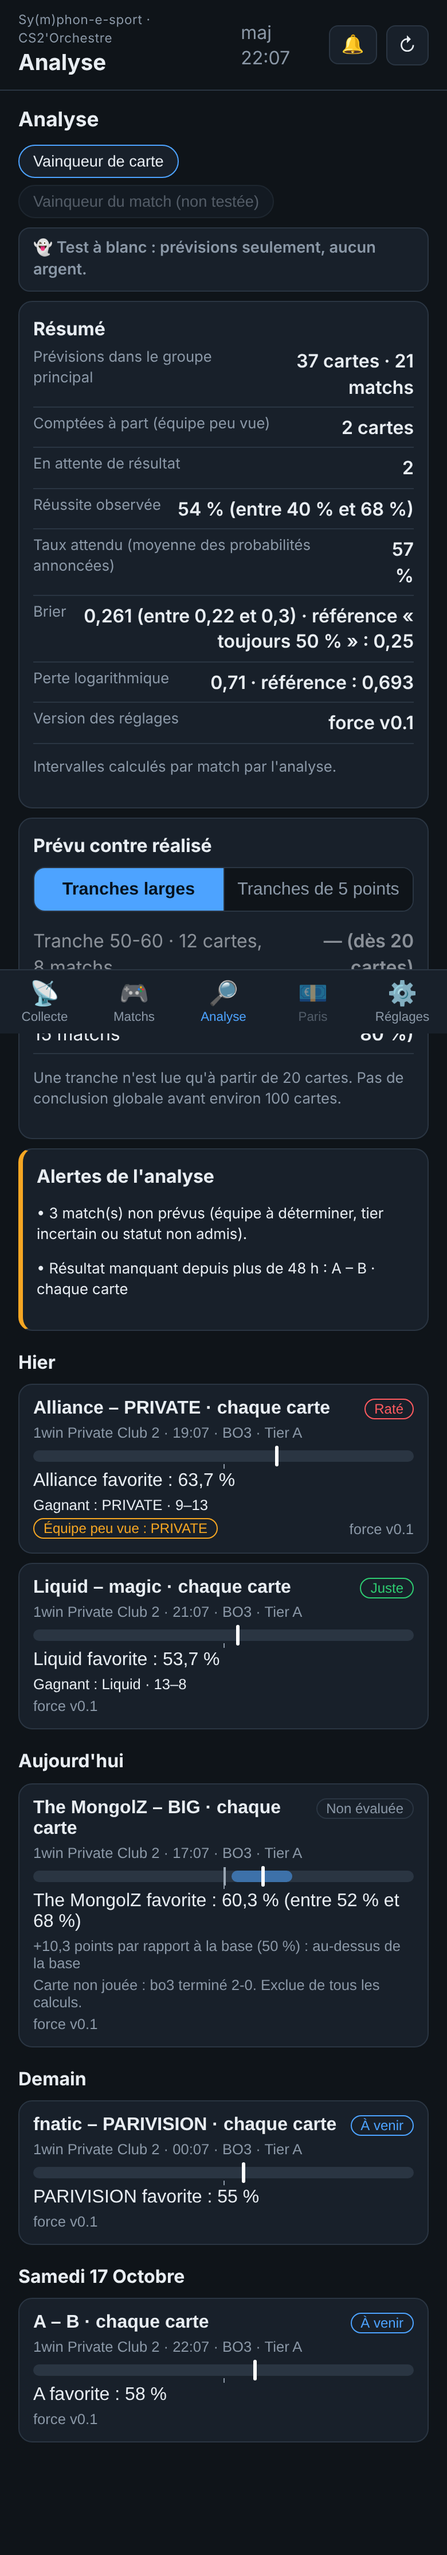
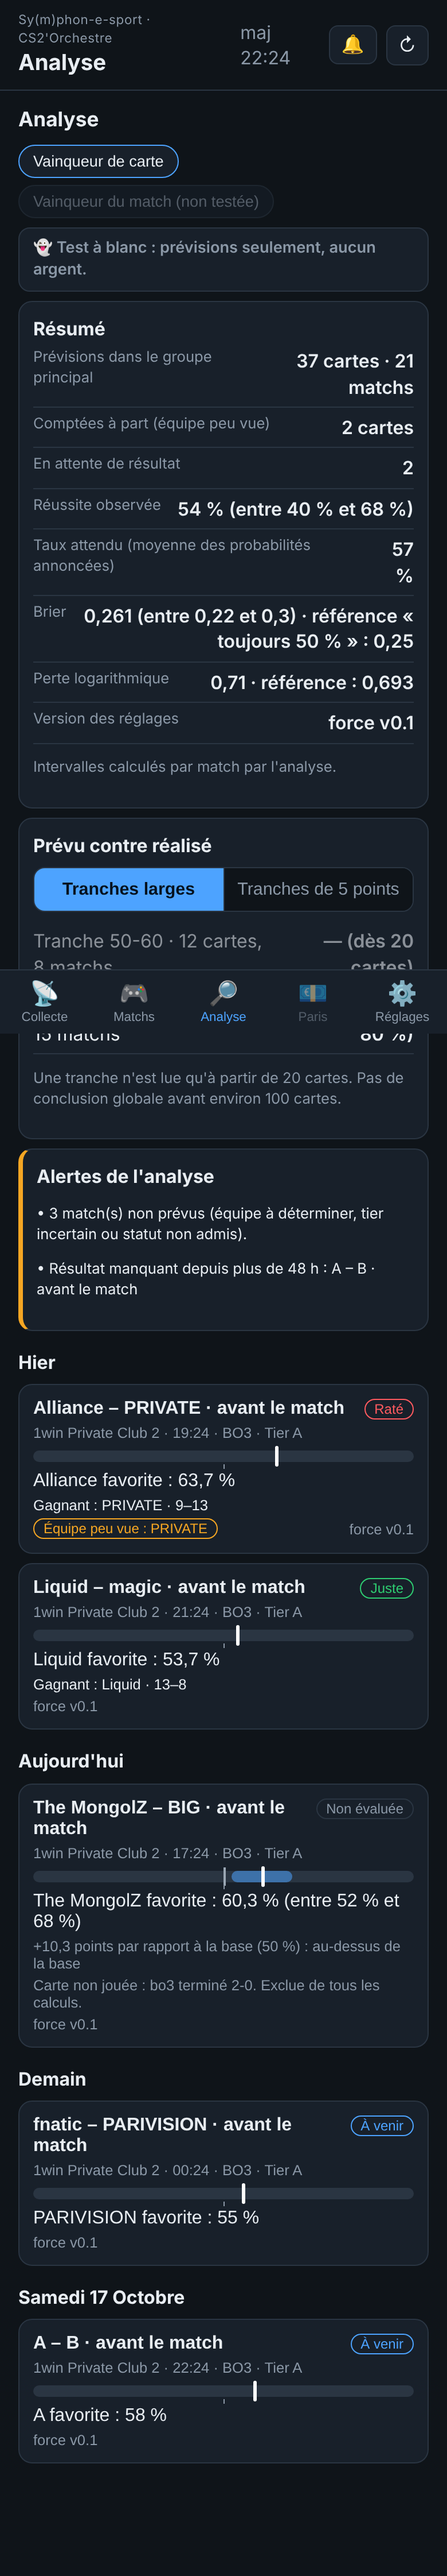
Appli v2.8 : carte_no = 0 lu comme « avant le match »
Claude-Session: https://claude.ai/code/session_01NmQoeBjxPTQhetKAx46qMs

diff --git a/app.js b/app.js
@@ -502,7 +502,7 @@
     return txt;
   }
   function titrePrevision(p) {
-    const carte = aVal(p.carte_no) ? "carte " + p.carte_no : "chaque carte";
+    const carte = Number(p.carte_no) > 0 ? "carte " + p.carte_no : "avant le match";
     return (p.equipe1_nom || "?") + " – " + (p.equipe2_nom || "?") + " · " + carte;
   }
   function sousTitrePrevision(p) {
